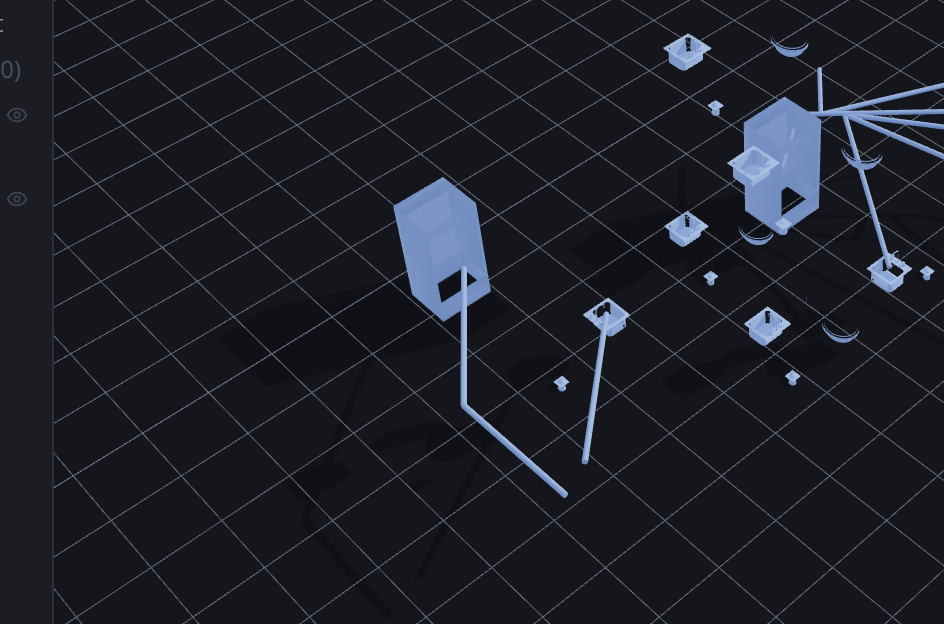
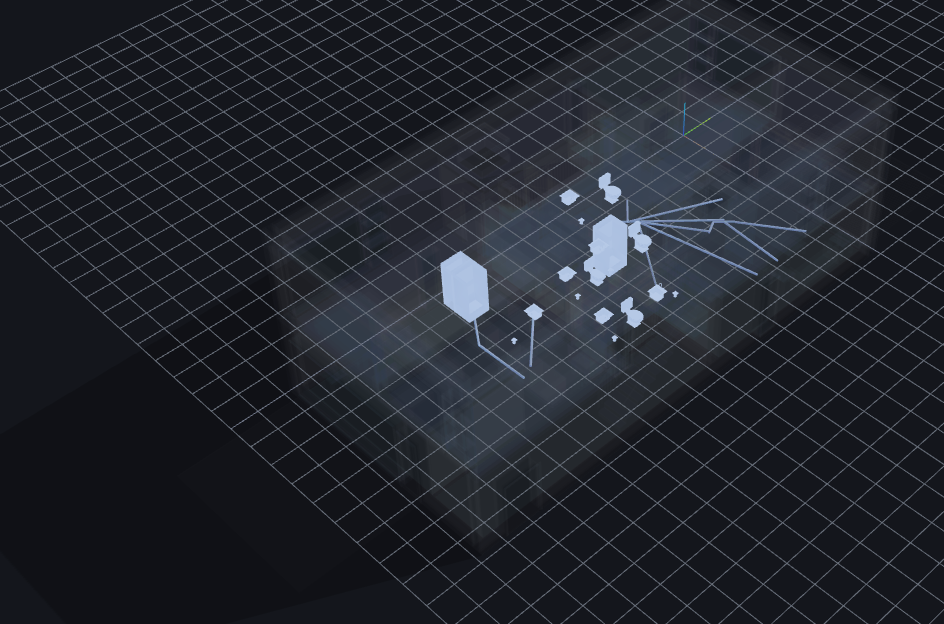
docs: final images from the live run (S8/S9/MEP), MEP step wording

diff --git a/docs/ModellerFirstSteps.md b/docs/ModellerFirstSteps.md
@@ -241,7 +241,7 @@ Press **Ctrl + Z**. The fixture and its pipes return: the original 22 runs are b
 Press **Ctrl + Z** once more. The **whole** walk goes — fixtures 18 → 0, pipe runs drawn 22 → 0 — and the model is back to its
 opened state (history position 196).
 
-![After the second Ctrl+Z: the bare building again](img/modeller/first-steps-mep7-undo-walk.png)
+![After the second Ctrl+Z: the bare building again (x-ray still on)](img/modeller/first-steps-mep7-undo-walk.png)
 
 ### 3.8 — Ctrl + Y brings it back
 
